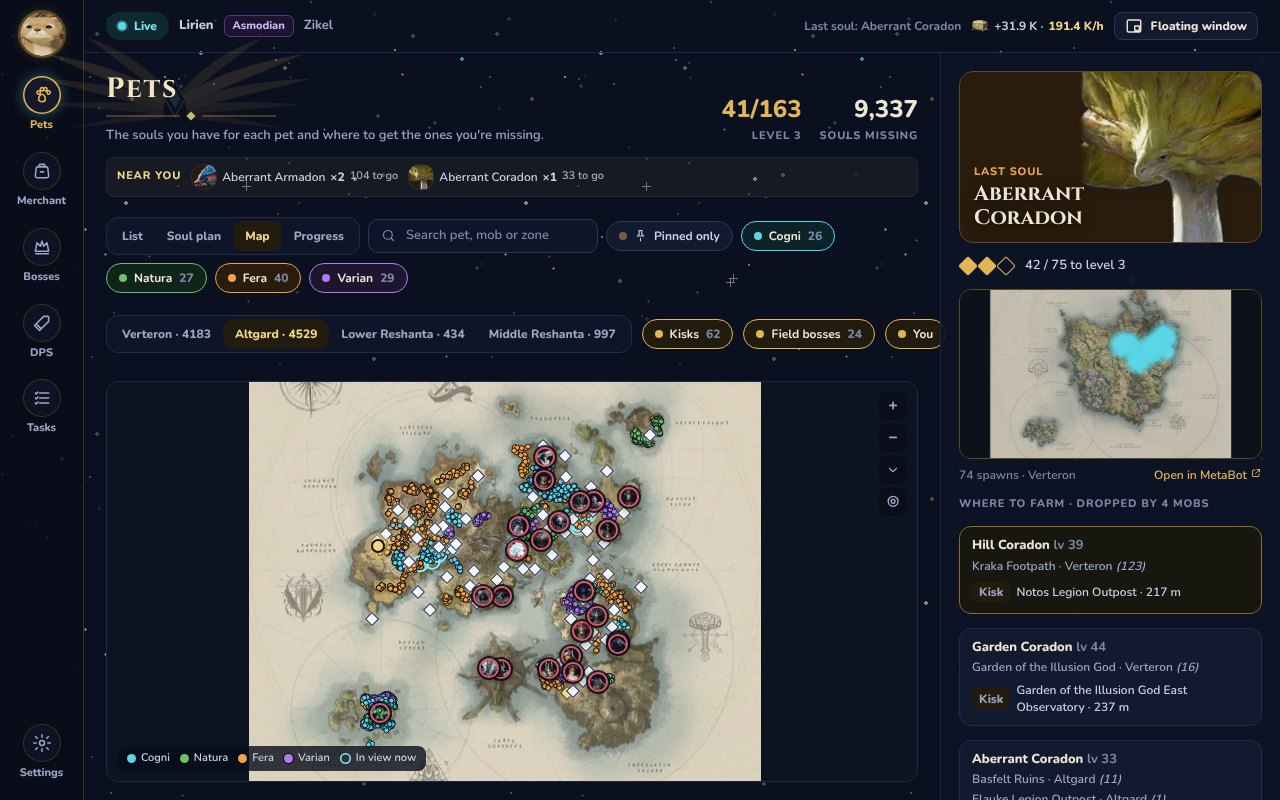
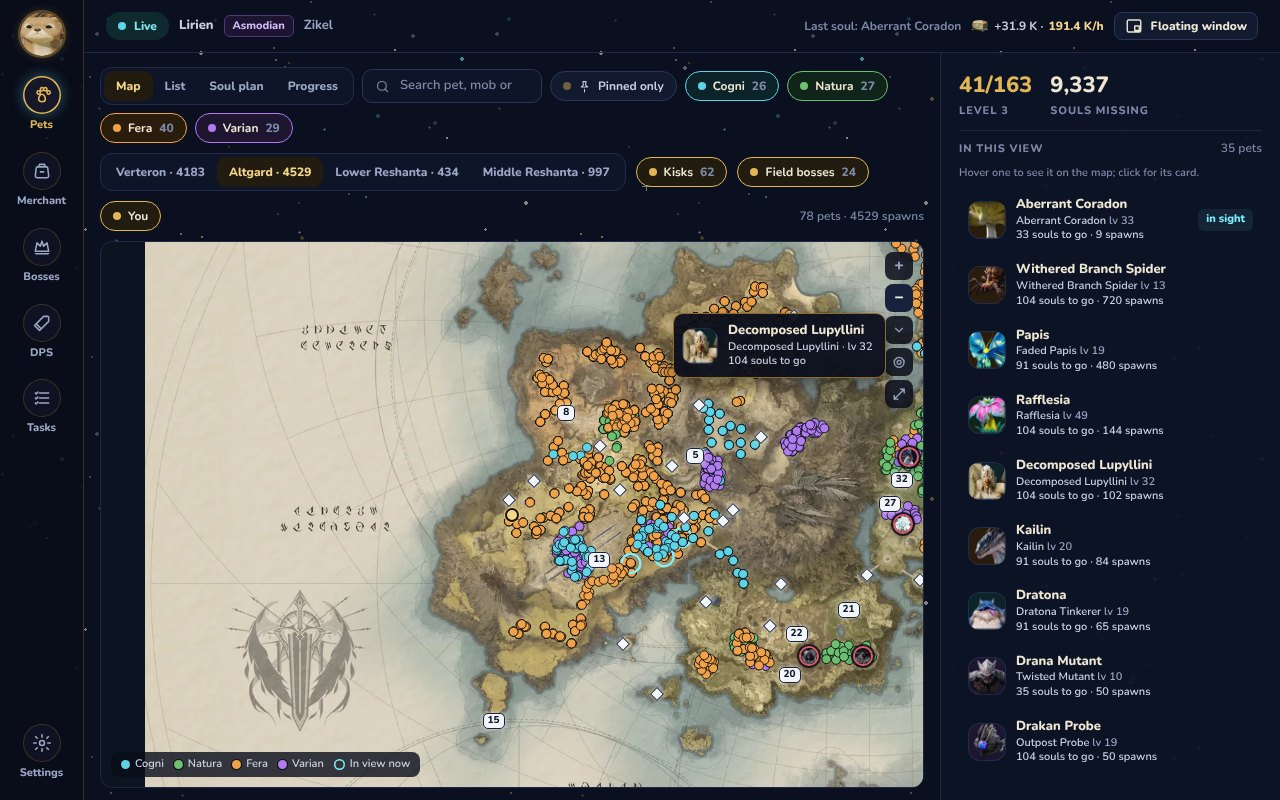
README and screenshots from aion2-companion@4b1eb9d

diff --git a/README.es.md b/README.es.md
@@ -27,7 +27,7 @@ El instalador (`Aion2Companion-Setup-….exe`) y el ZIP portable están en **Ass
 | --- | --- |
 | **Mascotas** | Cada mascota que no tienes al máximo, con su retrato, tus almas, el mob que la suelta, la zona, el kisk más cercano y un mapa de sus apariciones. Un aviso en cada alma te dice cuántas faltan, y «Cerca de ti» te enseña qué mobs de tus almas tienes a la vista. |
 | **Plan de almas** | Las zonas donde más mascotas tuyas sin terminar sueltan almas, de mejor a peor: en un solo viaje avanzas varias. Pon tu nivel y deja fuera los mobs que aún te quedan grandes. |
-| **Mapa** | Verteron, Altgard y las Reshantas como mapas enteros que arrastras y amplías: todas las apariciones de los mobs que te faltan, por género, los kisks y los field bosses, y tú, donde el juego dice que estás. |
+| **Mapa** | Lo primero de Mascotas: Verteron, Altgard y las Reshantas como mapas enteros que arrastras y amplías, centrados en ti. Todas las apariciones de los mobs que te faltan, por género, los kisks con su número de TP, los field bosses y tú, donde el juego dice que estás; a un lado, las mascotas de lo que tienes a la vista. |
 | **Progreso** | Tus almas de hoy, de la semana y del mes, las almas por día de las dos últimas semanas y las últimas mascotas que han subido de nivel. |
 | **Mercader de la Nube Negra** | Abre Pets o Special en el mercader y la app te enseña lo que vende frente a tu colección: lo que te falta sale primero, con su descuento. |
 | **Field bosses y eventos** | Timers de tu servidor, leídos de tu propio mapa del mundo y de NotMeter, y los eventos del juego (Festival Shugo, Grieta espaciotemporal, Invasión dimensional, asedio, reinicios). Pulsa la campana y te avisa con un aviso y un sonido antes de que empiece. |
@@ -39,7 +39,7 @@ Funciona en los **servidores Global (EU/NA)**.
 
 <table>
 <tr>
-<td colspan="2"><img src="img/es/map.jpg" alt="Mapa"><br><b>Mapa</b>: las apariciones que te faltan, los kisks, los field bosses y tú.</td>
+<td colspan="2"><img src="img/es/map.jpg" alt="Mapa"><br><b>Mapa</b>: las apariciones que te faltan, los kisks con su número, los field bosses y tú, con las mascotas a la vista al lado.</td>
 </tr>
 <tr>
 <td width="50%"><img src="img/es/plan.jpg" alt="Plan de almas"><br><b>Plan de almas</b>: adónde ir para avanzar más mascotas a la vez, a tu nivel.</td>

diff --git a/README.md b/README.md
@@ -27,7 +27,7 @@ The installer (`Aion2Companion-Setup-….exe`) and the portable ZIP are under **
 | --- | --- |
 | **Pets** | Every pet you haven't maxed, with its portrait, your souls, the mob that drops it, the zone, the nearest kisk and a map of its spawns. A popup on every soul tells you how many are left, and "Near you" shows which of your soul mobs are in view. |
 | **Soul plan** | The zones where the most of your unfinished pets drop souls, best first: one trip moves several of them along. Enter your level and mobs still too strong for you are left out. |
-| **Map** | Verteron, Altgard and the Reshantas as whole maps you drag and zoom: every spawn of the mobs you still need, by genus, the kisks and field bosses, and you, where the game says you are. |
+| **Map** | The first thing in Pets: Verteron, Altgard and the Reshantas as whole maps you drag and zoom, centred on you. Every spawn of the mobs you still need, by genus, the kisks with their teleport number, the field bosses and you, where the game says you are; beside it, the pets of what's in view. |
 | **Progress** | Your souls today, this week and this month, souls per day for the last two weeks, and the latest pets to level up. |
 | **Black Cloud Merchant** | Open Pets or Special at the merchant and the app shows what's for sale against your collection: what you still need comes first, with its discount. |
 | **Field bosses and events** | Timers for your server, read from your own world map and from NotMeter, plus the game's events (Shugo Festival, Spacetime Rift, Dimensional Invasion, the siege, resets). Ring a bell and get a popup and a sound before it starts. |
@@ -39,7 +39,7 @@ Works on the **Global servers (EU/NA)**.
 
 <table>
 <tr>
-<td colspan="2"><img src="img/en/map.jpg" alt="Map"><br><b>Map</b>: the spawns you still need, kisks, field bosses and you.</td>
+<td colspan="2"><img src="img/en/map.jpg" alt="Map"><br><b>Map</b>: the spawns you still need, numbered kisks, field bosses and you, with the pets in view beside it.</td>
 </tr>
 <tr>
 <td width="50%"><img src="img/en/plan.jpg" alt="Soul plan"><br><b>Soul plan</b>: where to go to move the most pets along, at your level.</td>
